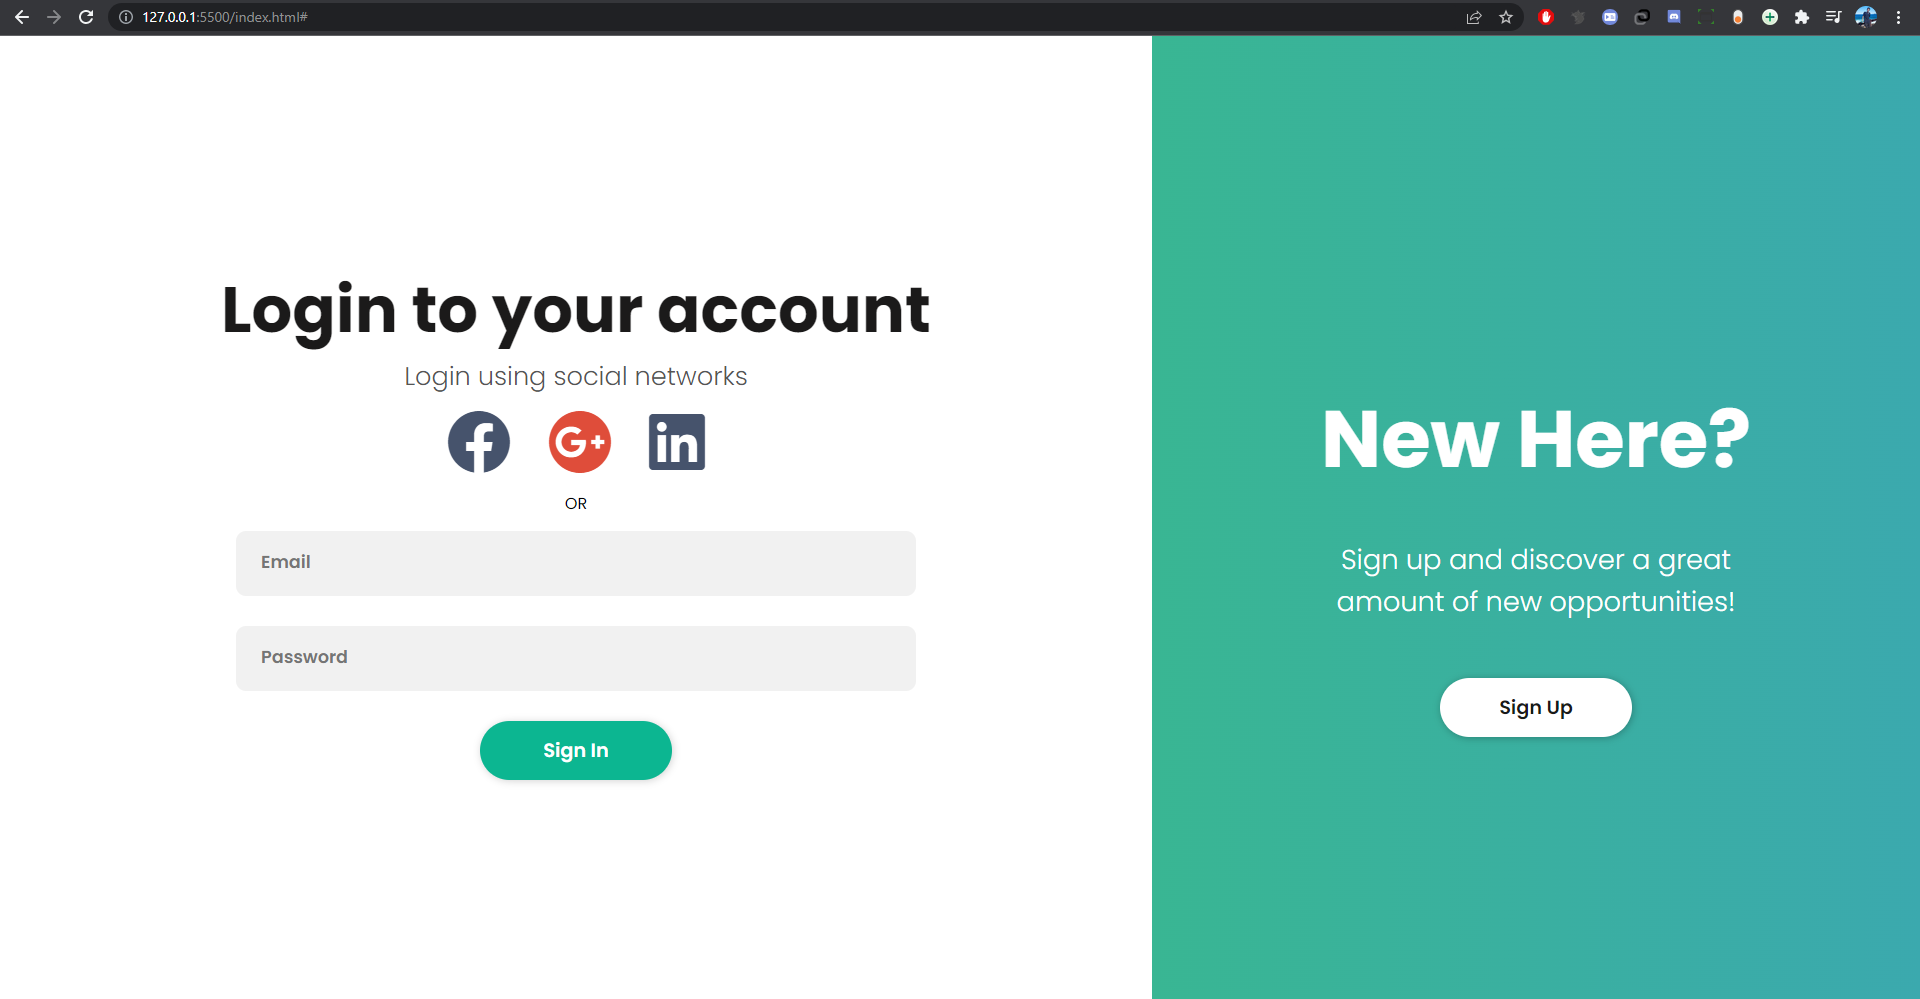
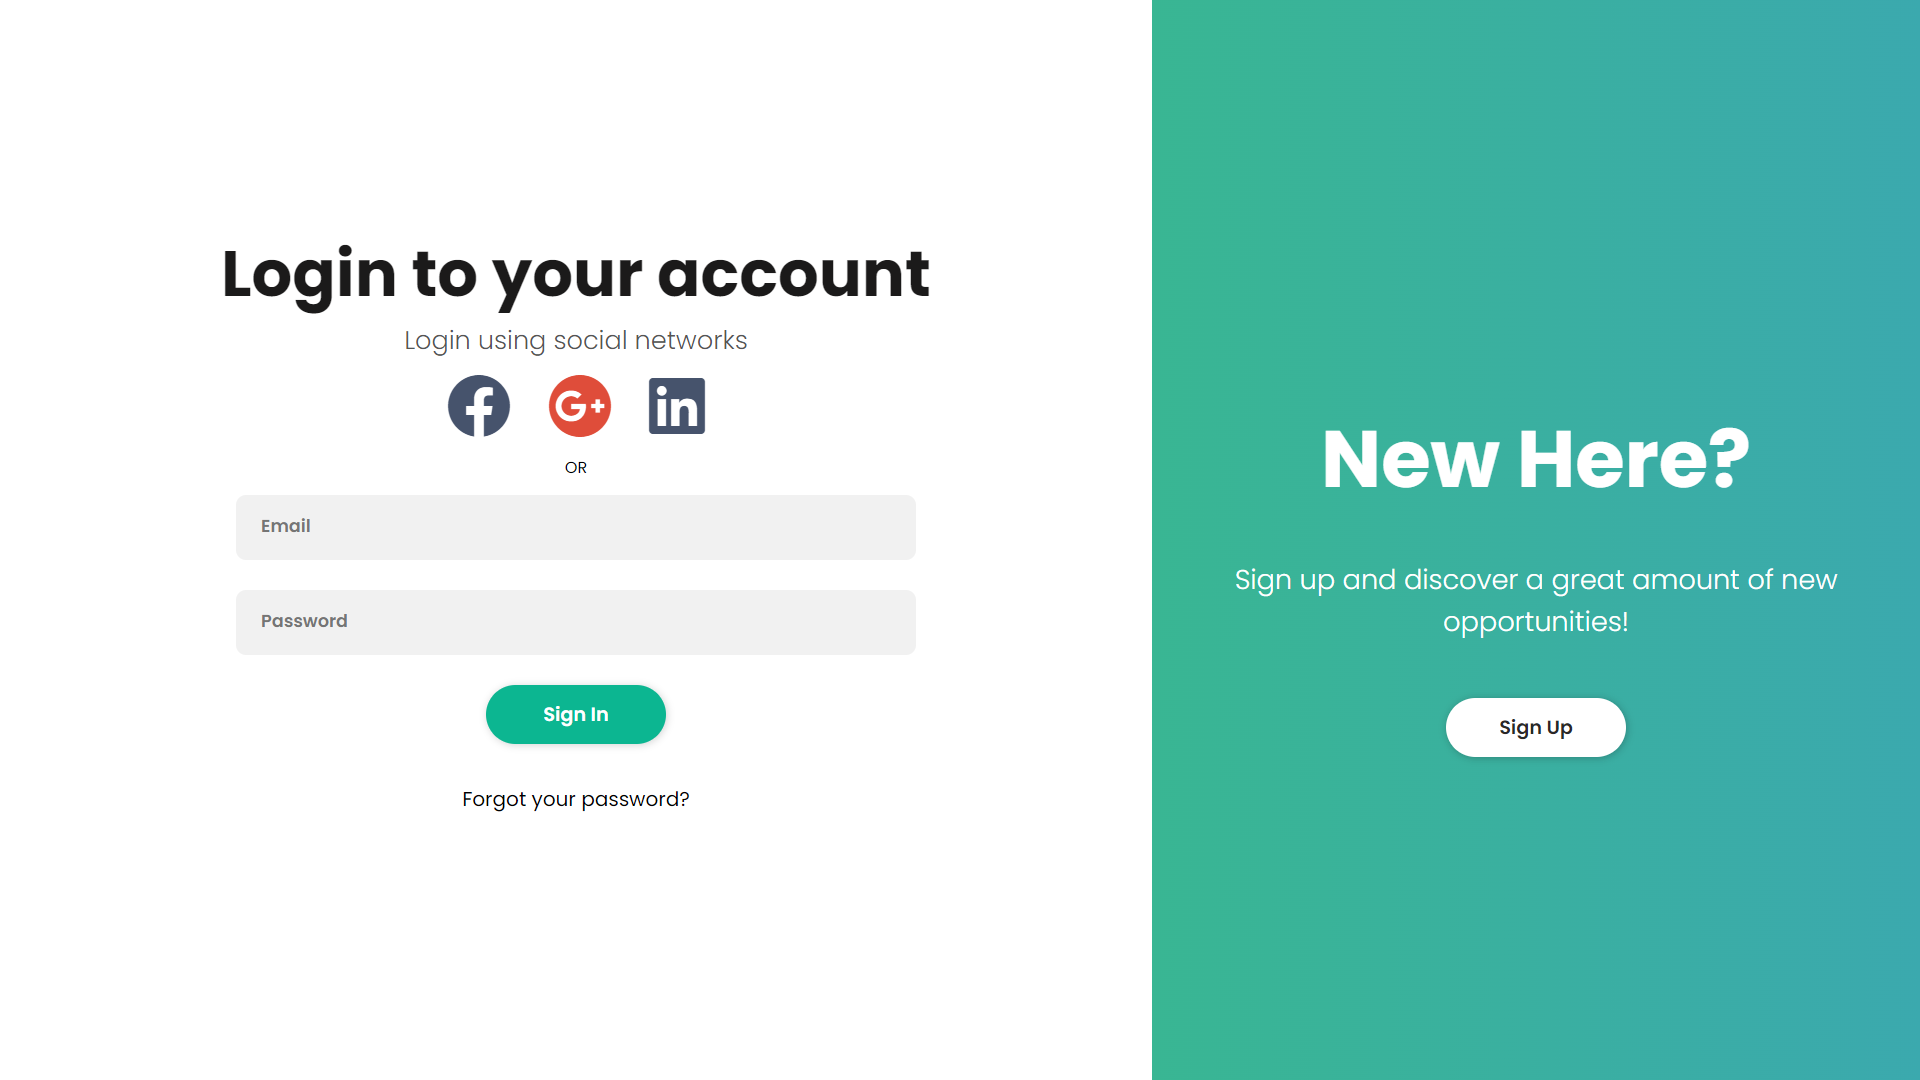
Editado readme.md

diff --git a/style.css b/style.css
@@ -95,21 +95,21 @@ aside > article > form > input::placeholder {
     background-color: rgb(10, 138, 110);
 }
 
-.options-login { 
+.login-options { 
     margin: 40px;
     display: flex;
     flex-direction: row;
     justify-content: space-evenly;
 }
 
-.options-login > a, .options-login > p {
+.login-options > a, .login-options > p {
     color: black;
     text-decoration: none;
     font-size: 2.0rem;
     cursor: pointer;
 }
 
-.options-login > a:hover, .options-login > p:hover {
+.login-options > a:hover, .login-options > p:hover {
     text-decoration: underline;
 }
 

diff --git a/index.html b/index.html
@@ -25,7 +25,7 @@
                 <input type="email" placeholder="Email">
                 <input type="password" placeholder="Password">
                 <input class="input-button" type="button" value="Sign In">
-                <div class="options-login">
+                <div class="login-options">
                     <p href="#" class="register" onclick="scrollPage()">Not registered?</p>
                     <a href="#">Forgot your password?</a>
                 </div>

diff --git a/README.md b/README.md
@@ -1,4 +1,29 @@
-# login-page
+# Login-Page com HTML5, CSS3 e JS.
  
+![Representação da Página](resultado-final.png)
+
 ### Introdução
 Essa é uma página estática criada para testar meus conhecimentos em HTML5 e CSS3.
+
+### Tecnologias utilizadas
+Utilizei HTML5, CSS3 e JavaScript para criar a página.
+
+### Responsividade
+Foi adicionado um sistema de responsividade básico na página diminuindo o tamanho da fonte da página para adaptação.
+
+A partir de 900px:
+- O display da página sai de grid para block, colocando o conteúdo principal e adiciona uma rolagem vertical para a continuação do conteúdo.
+
+- Surge uma nova opção na login-options para caso não seja registrado. Ao clicar na opção, a página scrolla automaticamente ao final para mostrar o conteúdo restante.
+
+### Unidades de medidas responsivas
+Foram utilizadas unidades responsivas nos paddings e font-size: rem, acompanhando o root do CSS.
+
+### Tecnologia Grid
+A fim de evitar o display flex com width pré-definido,foi utilizada uma tecnologia mais recente do CSS, display grid.
+
+### Agradecimentos e créditos
+- FontAwesome: site de ícones para HTML.
+- Rocketseat: conhecimentos sobre responsividade e display grid.
+- Justinmind: template artístico da página.
+- CursoEmVideo: conhecimentos sobre HTML5 e CSS3.
